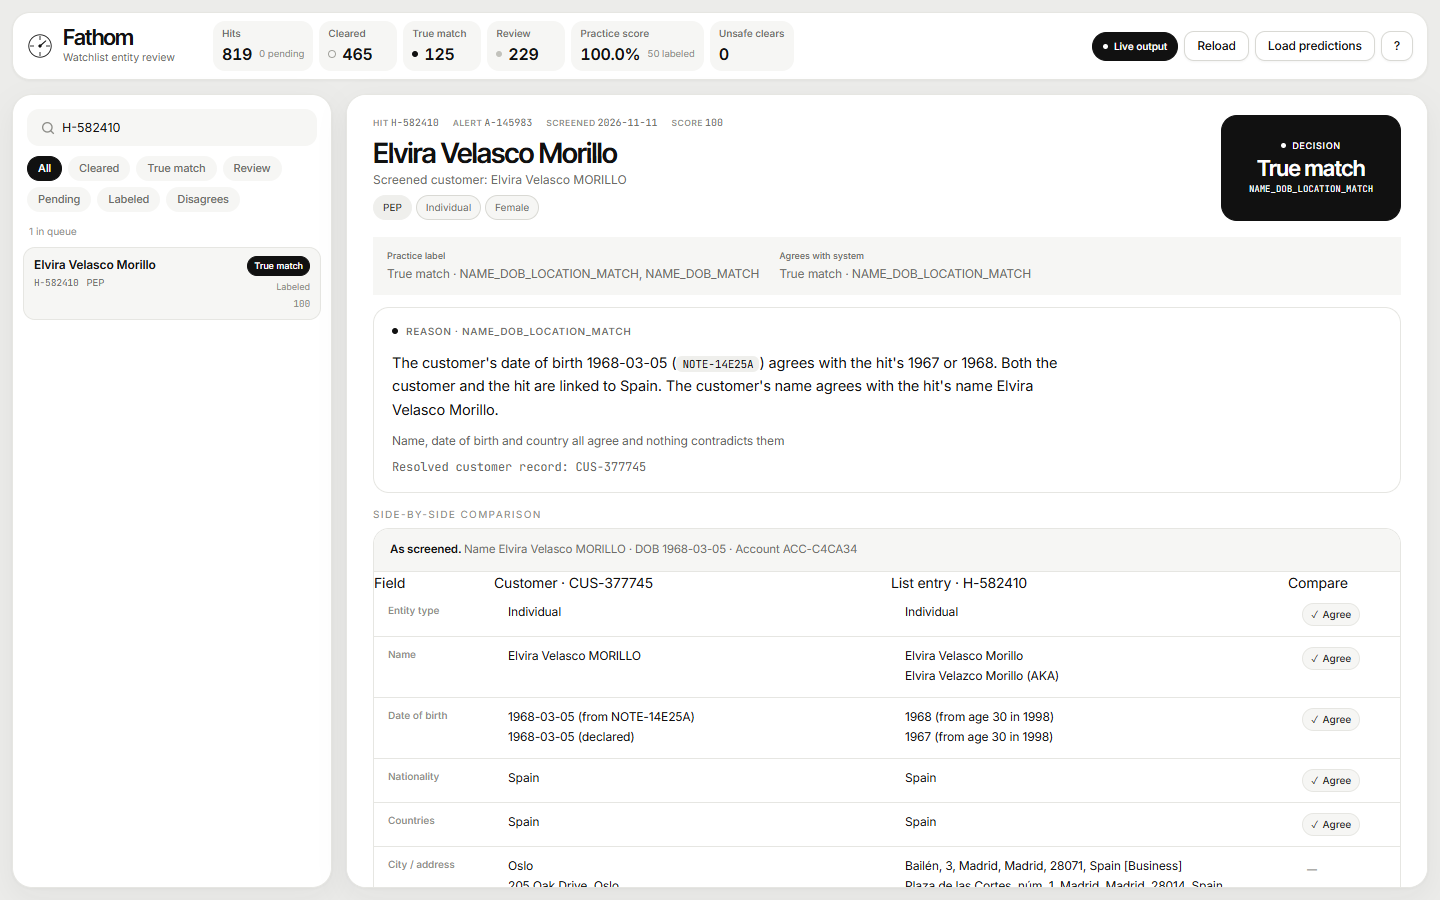
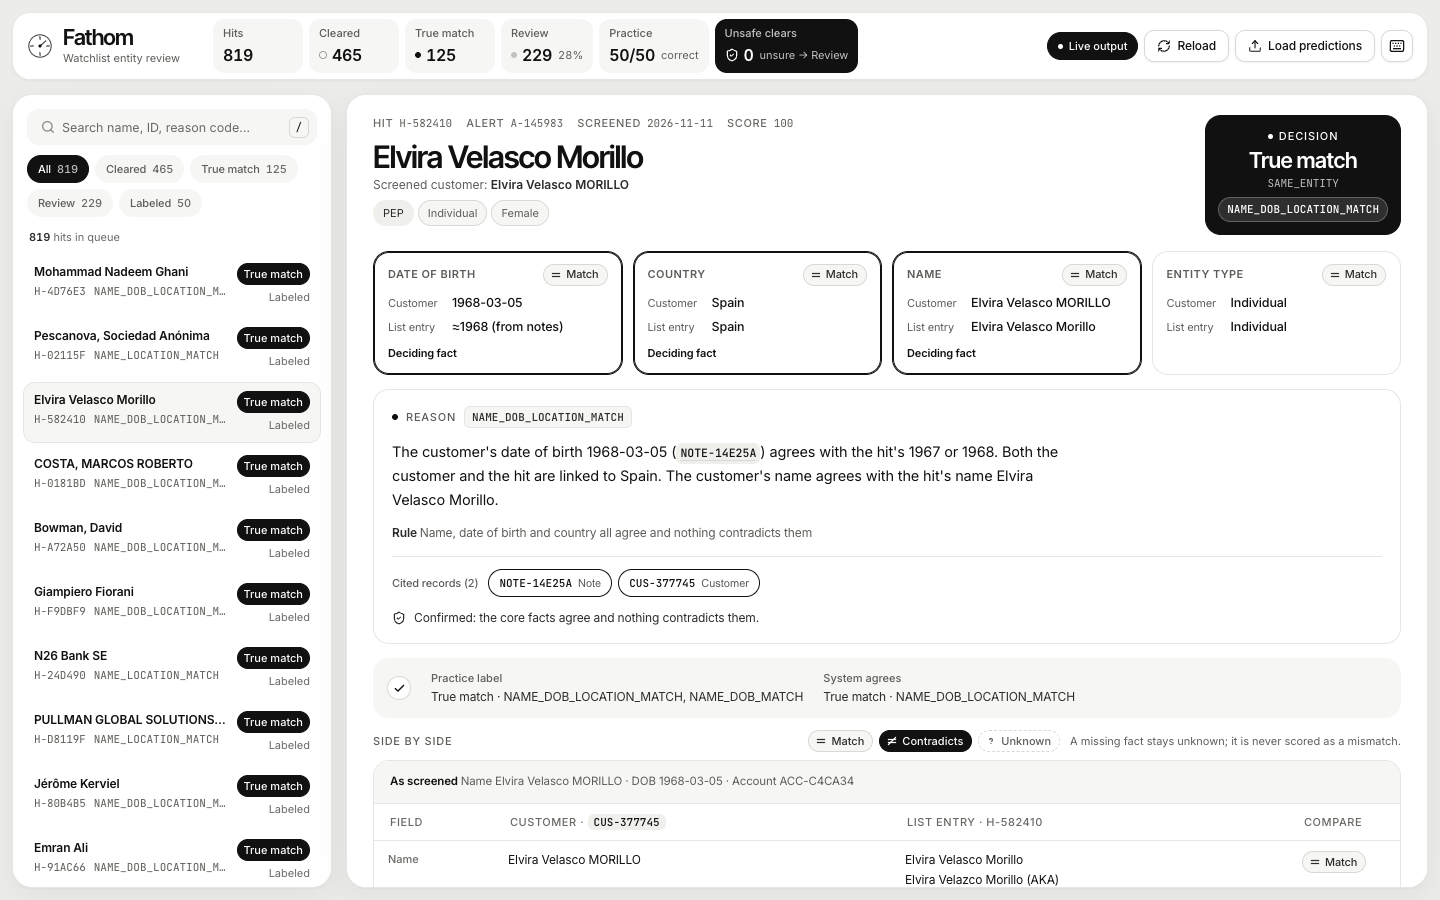
docs(ui): refresh screenshots (1440x900 and 1280x800) and describe the per-hit hierarchy

diff --git a/ui/README.md b/ui/README.md
@@ -29,11 +29,20 @@ If you already have a predictions file, use **Load predictions** in the top bar,
 
 ## What you will see
 
-- Counts by decision, plus a practice-set decision score and unsafe-clearance count when labels exist (the 50 `practice_labels.jsonl` hits). The score is the share of review-baseline cost saved, using the brief’s cost matrix (an unsafe clear costs 60).
-- Filters: cleared / true match / review / pending / labeled / disagreements, and a name or ID search.
-- A side-by-side customer vs list-entry comparison with agree / conflict / insufficient highlighting on name, date of birth, nationality, countries and entity type.
-- The decision reason, reason code, cited evidence records, and (for practice hits) the reference reason and file path.
-- Keyboard: `J` / `K` next and previous, `1–4` filters, `L` labeled, `D` disagreements, `/` search, `?` help.
+Per hit, top to bottom, in the order a reviewer needs it:
+
+1. **Decision stamp**: Cleared / True match / Review, the raw decision (`DIFFERENT_ENTITY` …) and the reason code.
+2. **Deciding facts**: Date of birth, Country, Name and Entity type tiles, each in one of three states that differ in shape as well as shade: **= Match** (solid), **≠ Contradicts** (ink pill), **? Unknown** (dashed). A missing fact is never drawn as a mismatch. Facts the reason code asserts win over the desk's own parsing and are marked *Deciding fact*.
+3. **Reason**: the system's 2–4 sentence reason, the rule behind its code, the **cited records** as buttons, and one safety line (cleared only on a contradiction; review when unsure).
+4. **Side by side**: customer vs list entry. Weak fields that are still unknown fold under "more fields".
+5. **Evidence records**: cited cards first. Every record ID on the page (`CUS-`, `KYC-`, `NOTE-`, `SR-`, …) jumps to its card and rings it once.
+
+The header carries counts, practice labels answered correctly (`50/50`) and **unsafe clears** (`0`, with "unsure → Review"). All are computed from the bundle.
+
+- Filters with live counts (All / Cleared / True match / Review / Labeled / Disagrees) and search by name, ID or reason code, with an empty state and a one-click reset.
+- Keyboard: `J` / `K` next and previous (arrow keys while the queue has focus), `1–4` all / cleared / true match / review, `L` labeled, `D` disagreements, `/` search (`Enter` returns to the queue), `Esc` clear, `?` help.
+- Motion: 150–250ms ease-out, transform and opacity only, pointer selection only; `J`/`K` swaps instantly. `prefers-reduced-motion` turns it off.
+- Muted text is at least 4.5:1 on every surface, nothing is smaller than 11px, and controls share 28/32px heights and one focus ring. No horizontal overflow at 1280×800 or 1440×900.
 
 Until `output/dev.jsonl` exists, the 50 practice-label answers are loaded as **sample predictions** and a banner says so. That sample will score 100% on the practice set — it is not the team’s system.
 
@@ -45,4 +54,4 @@ Until `output/dev.jsonl` exists, the 50 practice-label answers are loaded as **s
 | `prepare.py` | Builds a compact `data/bundle.json` (hits, alerts, candidate customers, KYC, notes, search results, labels, predictions) |
 | `serve.py` | Tiny server + auto-refresh |
 | `data/bundle.json` | Generated case file (~4 MB) |
-| `screenshots/` | Headless captures of the desk |
+| `screenshots/` | Headless Chrome captures at 1440×900 (and `*-1280-*` at 1280×800) |
